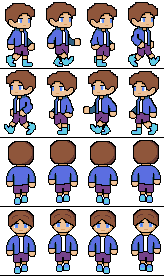
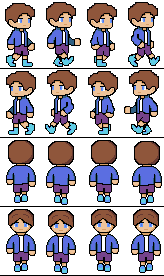
Door opening (bye bye class Player)

diff --git a/main.cpp b/main.cpp
@@ -9,16 +9,16 @@ struct CorridorHorizontal {
 };
 
 struct DoorHorizontal {
-    int x, y;
+    int x, y, w, h;
     Texture2D texture;
-    Rectangle hitboxNorth, hitboxDoor, hitboxSouth;
+    Rectangle hitboxNorth, hitboxDoor, hitboxSouth, sprite;
     bool open;
 };
 
 struct Player {
     int x, y, w, h, v;
     Texture2D texture;
-    Rectangle hitbox;
+    Rectangle hitbox, sprite;
 };
 
 // Création d'un joueur
@@ -29,7 +29,8 @@ void createPlayer(Player& player, float x, float y, const char* file_name) {
     player.h = 69;
     player.v = 3;
     player.texture = LoadTexture(file_name);
-    player.hitbox = { x + 4.0f, y + 64.0f, 33.0f, 7.0f }; // Bas de la texture pour hitbox
+    player.hitbox = { x + 4.0f, y + 64.0f, 33.0f, 7.0f };
+    player.sprite = { 0.0f, 0.0f, player.w, player.h };
 }
 
 // Création d'un corridor
@@ -45,74 +46,96 @@ void createCorridor(CorridorHorizontal& corridor, float x, float y) {
 void createDoor(DoorHorizontal& door, float x, float y) {
     door.x = x;
     door.y = y;
+    door.w = 51;
+    door.h = 159;
     door.texture = LoadTexture("./assets/SCP_Door.png");
     door.hitboxNorth = { x + 17.0f, y + 95.0f, 17.0f, 14.0f };
     door.hitboxSouth = { x + 17.0f, y + 146.0f, 17.0f, 14.0f };
     door.hitboxDoor = { x + 17.0f, y + 109.0f, 17.0f, 37.0f };
-    door.open = false;
+    door.sprite = { 0.0f, 0.0f, door.w, door.h };
+    door.open = 1;
+}
+
+void updateSpriteDoor(DoorHorizontal& door) {
+    if (door.open) {
+        door.sprite.x = door.w;
+    } else {
+        door.sprite.x = 0;
+    }
+}
+
+void interractDoor(DoorHorizontal& door) {
+    if (door.open) {
+        door.open = 0;
+    } else {
+        door.open = 1;
+    }
+    updateSpriteDoor(door);
 }
 
 // Mise à jour de l'animation du sprite
-void updateSpriteAnimation(Player& player, Rectangle& sprite, int& frameCounter) {
+void updateSpriteAnimation(Player& player, int& frameCounter) {
     frameCounter++;
     int frame = (frameCounter / 10) % 4; // Cycle entre 0 et 3
-    sprite.x = frame * player.w; // Change la colonne
+    player.sprite.x = frame * player.w; // Change la colonne
     if (frameCounter >= 40) frameCounter = 0; // Réinitialise après un cycle
 }
 
 // Gestion du mouvement du joueur
-void handleMovement(Player& player, Rectangle& sprite, int& frameCounter) {
+void handleMovement(Player& player, int& frameCounter) {
     bool isMoving = false;
 
     // Déplacement à droite
     if (IsKeyDown(KEY_D) || IsKeyDown(KEY_RIGHT)) {
         player.x += player.v;
         player.hitbox.x += player.v;
-        sprite.y = 0; // Ligne pour "droite"
+        player.sprite.y = 0; // Ligne pour "droite"
         isMoving = true;
     }
     // Déplacement à gauche
     if (IsKeyDown(KEY_A) || IsKeyDown(KEY_LEFT)) {
         player.x -= player.v;
         player.hitbox.x -= player.v;
-        sprite.y = player.h; // Ligne pour "gauche"
+        player.sprite.y = player.h; // Ligne pour "gauche"
         isMoving = true;
     }
     // Déplacement vers le haut
     if (IsKeyDown(KEY_W) || IsKeyDown(KEY_UP)) {
         player.y -= player.v;
         player.hitbox.y -= player.v;
-        sprite.y = player.h * 2; // Ligne pour "haut"
+        player.sprite.y = player.h * 2; // Ligne pour "haut"
         isMoving = true;
     }
     // Déplacement vers le bas
     if (IsKeyDown(KEY_S) || IsKeyDown(KEY_DOWN)) {
         player.y += player.v;
         player.hitbox.y += player.v;
-        sprite.y = player.h * 3; // Ligne pour "bas"
+        player.sprite.y = player.h * 3; // Ligne pour "bas"
         isMoving = true;
     }
 
     // Animation du sprite
     if (isMoving) {
-        updateSpriteAnimation(player, sprite, frameCounter);
+        updateSpriteAnimation(player, frameCounter);
     } else {
         frameCounter = 0; // Réinitialise l'animation si immobile
+    	updateSpriteAnimation(player, frameCounter);
     }
 }
 
 // Fonction principale
 int main() {
-    InitWindow(500, 200, "SCP : Secure Contain Protect");
+    InitWindow(600, 400, "SCP : Secure Contain Protect");
 
     // Initialisation du joueur
     Player guard;
-    createPlayer(guard, 150.0f, 100.0f, "./assets/SCP_Guard_Walking.png");
-    Rectangle guardSprite = { 0.0f, 0.0f, static_cast<float>(guard.w), static_cast<float>(guard.h) };
+    createPlayer(guard, 150.0f, 100.0f, "./assets/SCP_Default_Walking.png");
 
     // Initialisation du corridor et de la porte
     CorridorHorizontal corridor1;
     createCorridor(corridor1, 0.0f, 10.0f);
+    CorridorHorizontal corridor2;
+    createCorridor(corridor2, 498.0f, 10.0f);
     DoorHorizontal door1;
     createDoor(door1, 225.0f, 26.0f);
 
@@ -122,14 +145,19 @@ int main() {
     // Boucle principale
     while (!WindowShouldClose()) {
         // Gestion des mouvements
-        handleMovement(guard, guardSprite, frameCounter);
+        handleMovement(guard, frameCounter);
+        if (IsKeyPressed(KEY_E)) {
+            interractDoor(door1);
+        }
+        
 
         // Dessin
         BeginDrawing();
         ClearBackground(BLACK);
         DrawTexture(corridor1.texture, corridor1.x, corridor1.y, WHITE);
-        DrawTexture(door1.texture, door1.x, door1.y, WHITE);
-        DrawTextureRec(guard.texture, guardSprite, { static_cast<float>(guard.x), static_cast<float>(guard.y) }, WHITE);
+        DrawTexture(corridor2.texture, corridor2.x, corridor2.y, WHITE);
+        DrawTextureRec(door1.texture, door1.sprite, {door1.x, door1.y}, WHITE);
+        DrawTextureRec(guard.texture, guard.sprite, { static_cast<float>(guard.x), static_cast<float>(guard.y) }, WHITE);
 
         // Debug : Affiche les hitboxes
         DrawRectangleLinesEx(corridor1.hitboxNorth, 2.0f, RED);
@@ -145,6 +173,7 @@ int main() {
     // Libération des ressources
     UnloadTexture(guard.texture);
     UnloadTexture(corridor1.texture);
+    UnloadTexture(corridor2.texture);
     UnloadTexture(door1.texture);
     CloseWindow();
 
